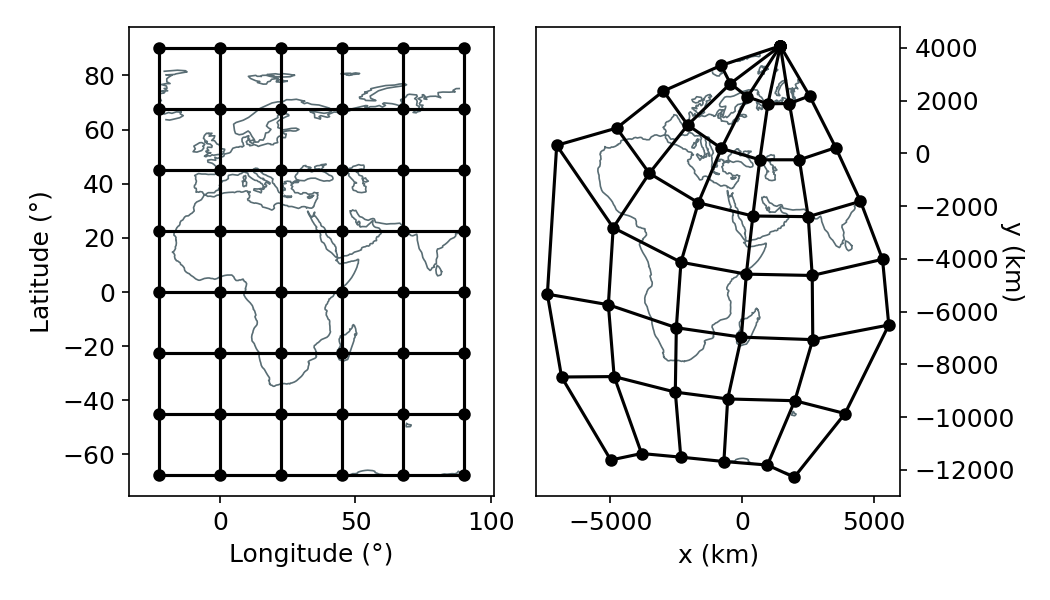
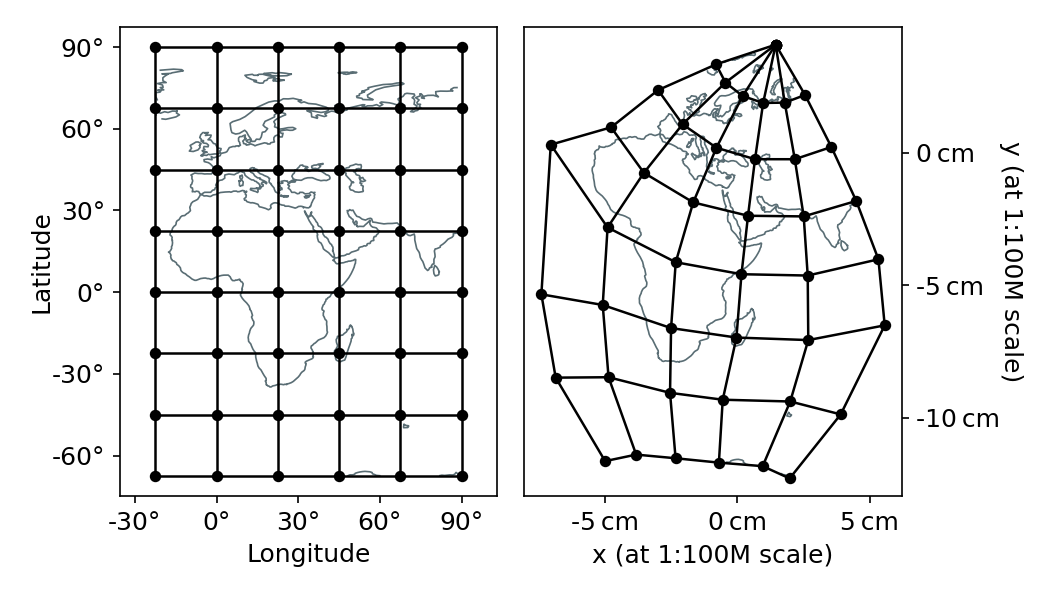
fix ticks and stuff

diff --git a/src/draw_diagrams.py b/src/draw_diagrams.py
@@ -10,6 +10,7 @@ import h5py
 import numpy as np
 from matplotlib import pyplot as plt
 from matplotlib.axes import Axes
+from matplotlib.ticker import MultipleLocator
 from scipy.interpolate import RegularGridInterpolator
 
 from build_mesh import build_mesh
@@ -20,18 +21,18 @@ def draw_diagrams():
 	plt.rcParams.update({'font.size': 12})
 
 	elastic_earth = load_mesh("elastic-earth-I")
+	elastic_earth.nodes /= 1e3  # scale down to a realistic map size and change km to cm
 	rectangular = equirectangular_like(elastic_earth)
 
 	fig, (ax_left, ax_right) = plt.subplots(1, 2, num="all sections", figsize=(7, 4))
-	ax_left.set_xlabel("Longitude (°)")
-	ax_left.set_ylabel("Latitude (°)")
 	draw_section(ax_left, rectangular, 0, nodes=True, edges=True, border=False, graticule=True, coastlines=True)
-	ax_right.set_xlabel("x (km)")
-	ax_right.set_ylabel("y (km)", rotation=-90)
+	ax_left.set_xlabel("Longitude")
+	ax_left.set_ylabel("Latitude", labelpad=-1)
+	set_ticks(ax_left, spacing=30, fmt="{x:.0f}°")
 	draw_section(ax_right, elastic_earth, 0, nodes=True, edges=True, border=False, graticule=True, coastlines=True)
-	ax_right.yaxis.tick_right()
-	ax_right.yaxis.set_label_position("right")
-	# TODO: manually set ticks
+	ax_right.set_xlabel("x (at 1:100M scale)")
+	ax_right.set_ylabel("y (at 1:100M scale)", labelpad=11, rotation=-90)
+	set_ticks(ax_right, spacing=5, fmt="{x:.0f} cm", y_ticks_on_right=True)
 	plt.tight_layout()
 	plt.savefig("../examples/explanation-1.png", dpi=150)
 
@@ -42,10 +43,10 @@ def draw_section(ax: Axes, mesh: Mesh, h: int,
                  nodes: bool, edges: bool, border: bool,
                  graticule: bool, coastlines: bool) -> None:
 	if nodes:
-		ax.scatter(mesh.nodes[h, :, :, 0], mesh.nodes[h, :, :, 1], color="k", s=25, zorder=20)
+		ax.scatter(mesh.nodes[h, :, :, 0], mesh.nodes[h, :, :, 1], color="k", s=20, zorder=20)
 	if edges:
-		ax.plot(mesh.nodes[h, :, :, 0], mesh.nodes[h, :, :, 1], color="k", linewidth=1.5, zorder=20)
-		ax.plot(mesh.nodes[h, :, :, 0].T, mesh.nodes[h, :, :, 1].T, color="k", linewidth=1.5, zorder=20)
+		ax.plot(mesh.nodes[h, :, :, 0], mesh.nodes[h, :, :, 1], color="k", linewidth=1.2, zorder=20)
+		ax.plot(mesh.nodes[h, :, :, 0].T, mesh.nodes[h, :, :, 1].T, color="k", linewidth=1.2, zorder=20)
 	if coastlines:
 		project = RegularGridInterpolator([mesh.ф, mesh.λ], mesh.nodes[h, :, :, :],
 		                                  bounds_error=False, fill_value=nan)
@@ -54,6 +55,15 @@ def draw_section(ax: Axes, mesh: Mesh, h: int,
 			projected_line = project(line)
 			ax.plot(projected_line[:, 0], projected_line[:, 1], "#596d74", linewidth=0.8, zorder=10)
 	ax.axis("equal")
+
+
+def set_ticks(ax: Axes, spacing: float, fmt: str, y_ticks_on_right=False) -> None:
+	for axis in [ax.xaxis, ax.yaxis]:
+		axis.set_major_locator(MultipleLocator(spacing))
+		axis.set_major_formatter(fmt)
+	if y_ticks_on_right:
+		ax.yaxis.tick_right()
+		ax.yaxis.set_label_position("right")
 
 
 def load_mesh(filename) -> Mesh:
